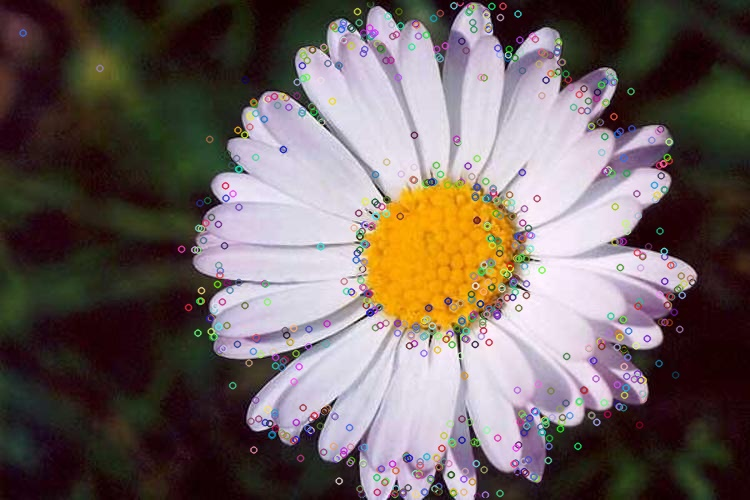
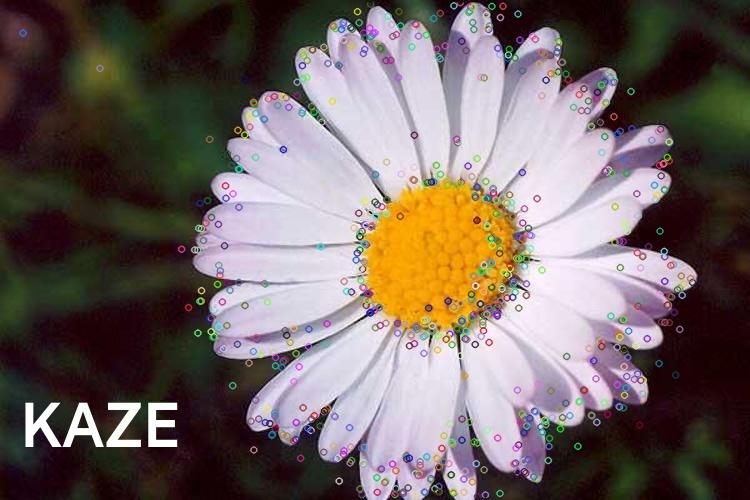
new images

diff --git a/index.html b/index.html
@@ -104,20 +104,11 @@
 					</section>
 					<section>
 						<div>
-							<figure style="float: left">
-								<img src="img/SIFT.jpg" style="width: 40%; height: 40%">
-								<figcaption>SIFT</figcaption>
-							</figure>
-							<figure style="float: right">
-								<img src="img/SURF.jpg" style="width: 40%; height: 40%">
-								<figcaption>SURF</figcaption>
-							</figure>
+							<img src="img/SIFT.jpg" style="float: left; width: 45%; height: 45%">
+							<img src="img/SURF.jpg" style="float: right; width: 45%; height: 45%">
 						</div>
 						<div>
-							<figure style="float: center">
-								<img src="img/KAZE.jpg" style="width: 40%; height: 40%">
-								<figcaption>KAZE</figcaption>
-							</figure>
+							<img src="img/KAZE.jpg" style="float: center; width: 45%; height: 45%">
 						</div>
 					</section>
 				</section>
